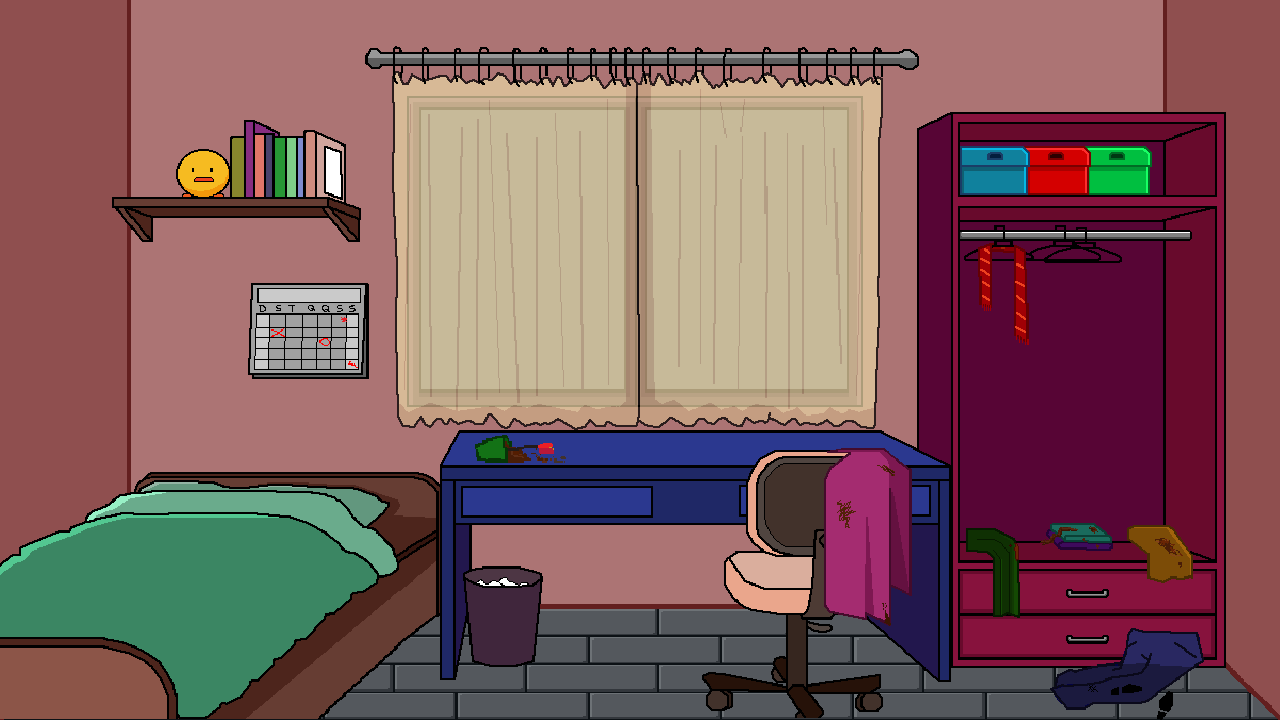
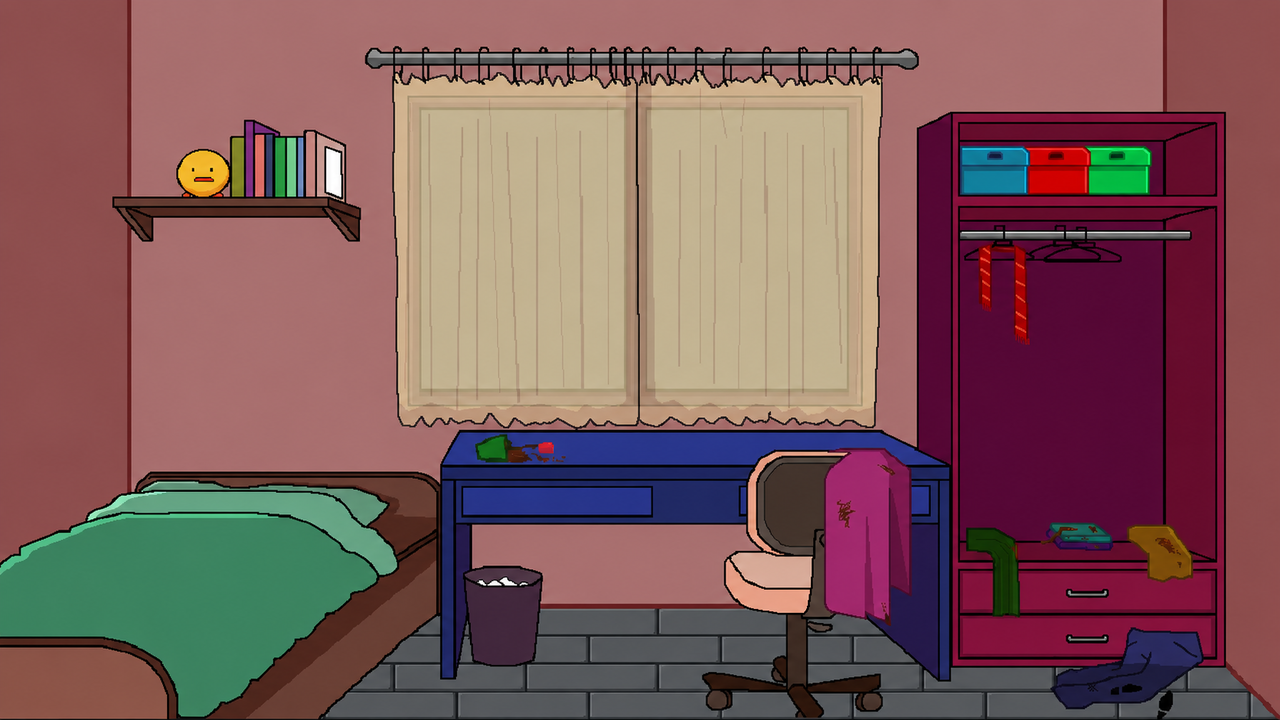
calendario adicionado

diff --git a/src/telas/Puzzle2.java b/src/telas/Puzzle2.java
@@ -18,13 +18,42 @@ public class Puzzle2 extends JPanel {
         //Fundo
         ImageIcon fundo = new ImageIcon(Puzzle2.class.getResource("/assets/QuartRosalngelaSemVestido.png"));
         ImageIcon vestidoRasgado = new ImageIcon(Puzzle2.class.getResource("/assets/VestidoRasgadoNoCabide.png"));
-        Botao botaoVestidoRasgado = new Botao(vestidoRasgado,1070, 22   0);
+        Botao botaoVestidoRasgado = new Botao(vestidoRasgado,1070, 220);
         botaoVestidoRasgado.getBotaoClicavel().setBorderPainted(false);
         botaoVestidoRasgado.getBotaoClicavel().setContentAreaFilled(false);
         botaoVestidoRasgado.getBotaoClicavel().setFocusPainted(false);
 
+        ImageIcon calendario = new ImageIcon(Puzzle2.class.getResource("/assets/calendario.png"));
+        Botao botaoCalendario = new Botao(calendario,150, 270);
+        botaoCalendario.getBotaoClicavel().setBorderPainted(false);
+        botaoCalendario.getBotaoClicavel().setContentAreaFilled(false);
+        botaoCalendario.getBotaoClicavel().setFocusPainted(false);
+
+        ImageIcon calendarioZoom = new ImageIcon(Puzzle2.class.getResource("/assets/CalendarioZoom.png"));
+        Botao botaoCalendarioZoom = new Botao(calendarioZoom,0, 0);
+        botaoCalendarioZoom.getBotaoClicavel().setBorderPainted(false);
+        botaoCalendarioZoom.getBotaoClicavel().setContentAreaFilled(false);
+        botaoCalendarioZoom.getBotaoClicavel().setFocusPainted(false);
+
+        botaoCalendario.getBotaoClicavel().addActionListener(e -> {
+            labelFundo.add(botaoCalendarioZoom.getBotaoClicavel());
+            labelFundo.remove(botaoVestidoRasgado.getBotaoClicavel());
+            labelFundo.remove(botaoCalendario.getBotaoClicavel());
+            labelFundo.setBounds(0, 0, 1280, 720);
+            labelFundo.setLayout(null);
+        });
+
+        botaoCalendarioZoom.getBotaoClicavel().addActionListener(e -> {
+            labelFundo.remove(botaoCalendarioZoom.getBotaoClicavel());
+            labelFundo.add(botaoVestidoRasgado.getBotaoClicavel());
+            labelFundo.add(botaoCalendario.getBotaoClicavel());
+            labelFundo.setBounds(0, 0, 1280, 720);
+            labelFundo.setLayout(null);
+        });
+
         this.labelFundo = new JLabel(fundo);
         labelFundo.add(botaoVestidoRasgado.getBotaoClicavel());
+        labelFundo.add(botaoCalendario.getBotaoClicavel());
         labelFundo.setBounds(0, 0, 1280, 720);
         labelFundo.setLayout(null);
 

diff --git a/src/telas/Puzzle1/PuzzleEscolha1.java b/src/telas/Puzzle1/PuzzleEscolha1.java
@@ -106,7 +106,7 @@ public class PuzzleEscolha1 extends JPanel {
             bloquearOpcao(opcao4);
         });
         opcao3.addActionListener(e -> {
-            mostrarResposta("Consulta na UBS? Não me lembro disso. Mas tudo bem,<br> vá, mas troque de roupa antes, não quero que os médicos te vejam assim...");
+            mostrarResposta("Consulta na UBS? Não me lembro disso. Mas tudo bem,<br> vá, mas troque de roupa antes, não quero que os <br>médicos te vejam assim...");
             desabilitarTodas();
 
             Timer timer = new Timer(3500, evento -> {
